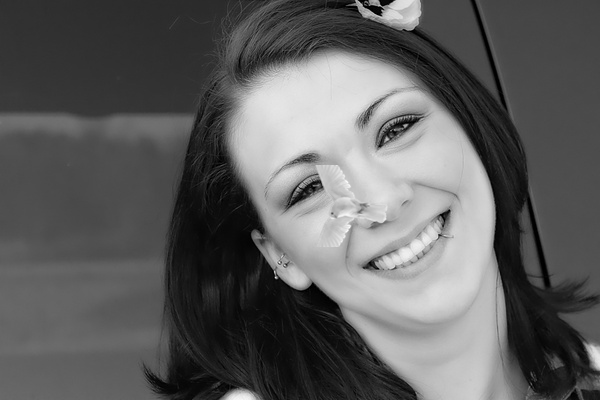
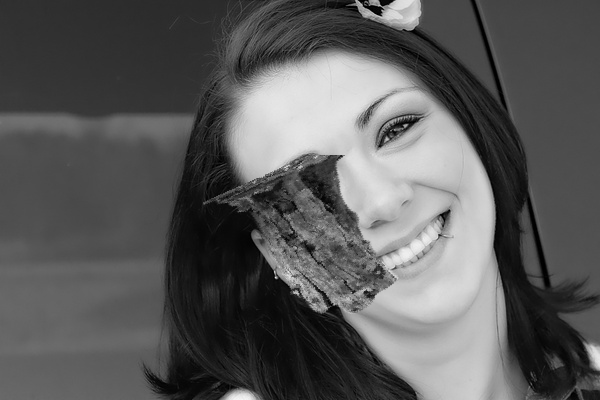
Changed random occlusion to generate occlusion based on percent of area of face

Changed region(s): [[0.33, 0.39, 0.66, 0.78]]

diff --git a/Random-Object-Occlusion/script.py b/Random-Object-Occlusion/script.py
@@ -6,11 +6,17 @@ import cv2
 import os
 import pdb
 import sys
+import math
 
 directory = "/research/hal-datastage/datasets/processed/CelebA/celebahq_crop/all_images/imgs"
 results = "/research/hal-datastage/datasets/processed/CelebA/celebahq_crop/all_images/random_occ"
 results_seg = "/research/hal-datastage/datasets/processed/CelebA/celebahq_crop/all_images/random_occ_seg"
-scale_range_min, scale_range_max = 0.25, 2
+
+directory = "imgs"
+results = "results"
+results_seg = "results"
+
+percent_of_area_of_face_covered_min, percent_of_area_of_face_covered_max = 15, 40
 rotation_min, rotation_max = 0, 360
 
 def get_segmentation_mask(object_png : Image.Image, image_to_occlude: Image.Image, placed_position):
@@ -64,18 +70,17 @@ for file in os.listdir(directory):
     background = Image.open(f"{directory}/{file}")
     bg_width, bg_height = background.size
 
-    scale = random.random() * (scale_range_max - scale_range_min) + scale_range_min
+    scale = math.sqrt(random.randint(percent_of_area_of_face_covered_min, percent_of_area_of_face_covered_max) / 100)
     rotation = random.randint(rotation_min, rotation_max)
-
-    img = Image.open(f"Object Images/{random.choice(os.listdir('Object Images'))}").resize((bg_width // 5, bg_height * (bg_width // 5) // bg_width))
-
-    img_width, img_height = img.size
-    img = img.resize((int(img_width * scale), int(img_height * scale)))
-
-    img = img.rotate(rotation)
 
     face_x, face_y, face_width, face_height = detect_face_location(f"{directory}/{file}")
     location = (random.randint(face_x, face_x + face_width // 2), random.randint(face_y, face_y + face_height // 2))
+
+    new_width = int(face_width * scale)
+    new_height = int(face_height * (face_width * scale) // face_width)
+    img = Image.open(f"Object Images/{random.choice(os.listdir('Object Images'))}").resize((new_width, new_height))
+
+    img = img.rotate(rotation)
 
     background.paste(img, location, img)
     # background.show()
